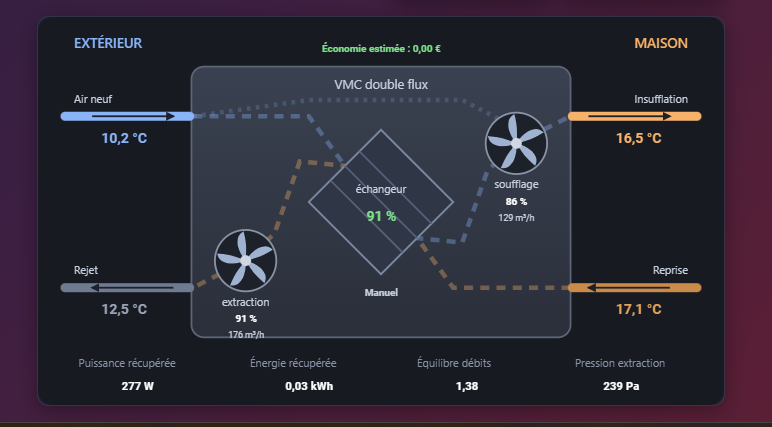
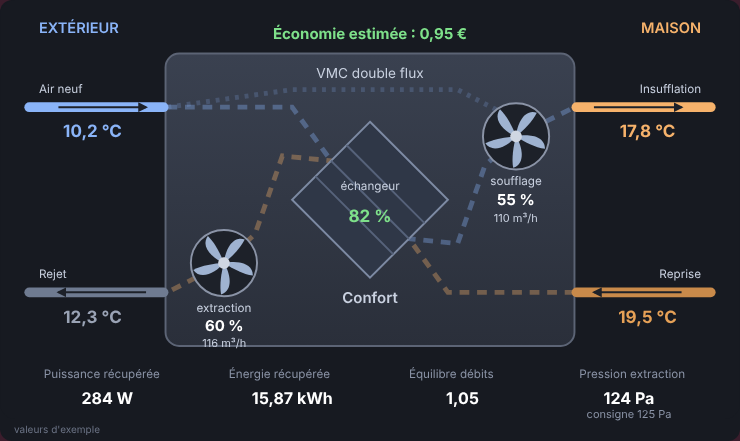
README : captures d'exemple en mode Confort ; page web : consigne sur sa propre ligne
Claude-Session: https://claude.ai/code/session_01LVMYbbhn3WVQ2CKxBwbHL5

diff --git a/esphome/vmc_synoptique.js b/esphome/vmc_synoptique.js
@@ -51,7 +51,7 @@
   //  Dessin SVG
   // --------------------------------------------------------------------
   const svg = `
-<svg viewBox="0 0 760 430" xmlns="http://www.w3.org/2000/svg" font-family="system-ui,Segoe UI,Roboto,sans-serif">
+<svg viewBox="0 0 760 442" xmlns="http://www.w3.org/2000/svg" font-family="system-ui,Segoe UI,Roboto,sans-serif">
   <defs>
     <marker id="fl" viewBox="0 0 10 10" refX="8" refY="5" markerWidth="5" markerHeight="5" orient="auto">
       <path d="M0,0 L10,5 L0,10 z" fill="currentColor"/></marker>
@@ -140,6 +140,7 @@
     <text id="v-en" x="230" y="414">-- kWh</text>
     <text id="v-ratio" x="420" y="414">--</text>
     <text id="v-pres" x="590" y="414">-- Pa</text>
+    <text id="v-cons" x="590" y="436" fill="#8a93a6" font-size="13" font-weight="400"></text>
   </g>
 </svg>`;
 
@@ -236,8 +237,8 @@
     set("v-pw", num("pw") === null ? "-- W" : Math.round(num("pw")) + " W");
     set("v-en", (num("en") === null ? "-- kWh" : (num("en") / 1000).toFixed(2) + " kWh") +
       (num("eco") === null ? "" : " \u00b7 " + num("eco").toFixed(2).replace(".", ",") + " \u20ac"));
-    set("v-pres", (num("pres") === null ? "-- Pa" : Math.round(num("pres")) + " Pa")
-      + (num("cons") === null ? "" : " / consigne " + Math.round(num("cons"))));
+    set("v-pres", num("pres") === null ? "-- Pa" : Math.round(num("pres")) + " Pa");
+    set("v-cons", num("cons") === null ? "" : "consigne " + Math.round(num("cons")) + " Pa");
     const r = num("ratio");
     const dT = (num("trep") !== null && num("text") !== null) ? num("trep") - num("text") : null;
     set("v-ratio", r === null ? (dT !== null && dT < 6 ? "-- (doux)" : "calcul\u2026") :

diff --git a/README.md b/README.md
@@ -4,6 +4,8 @@ Supervision et pilotage d'une **VMC double flux** (testé sur **Atlantic Duocosy
 
 ![Page web intégrée à l'ESP](docs/images/page-web-esp.png)
 
+*Page web de l'ESP en mode Confort (valeurs d'exemple d'une VMC réglée).*
+
 ## Ce que ça fait
 
 - **4 sondes DS18B20** (air neuf, insufflation, reprise, rejet), avec **affectation des sondes modifiable depuis la page web de l'ESP**, sans recompiler.
@@ -22,6 +24,8 @@ Supervision et pilotage d'une **VMC double flux** (testé sur **Atlantic Duocosy
 - **Cartes Home Assistant** : un schéma « picture-elements » et des tuiles Mushroom.
 
 ![Carte Home Assistant](docs/images/carte-home-assistant.png)
+
+*Carte Home Assistant (valeurs d'exemple).*
 
 ## Deux versions matérielles
 

diff --git a/CHANGELOG.md b/CHANGELOG.md
@@ -1,5 +1,9 @@
 # Historique des versions
 
+## Prochaine version
+
+- Page web de l'ESP : la consigne s'affiche sur une ligne à part, sous la pression (elle débordait sur les écrans étroits).
+
 ## v1.5.0 (17/11/2026) : modes Manuel / Éco / Confort / Boost
 
 - Un seul sélecteur **« Mode de ventilation »** remplace « Régulation extraction » et « Régulation soufflage » :
